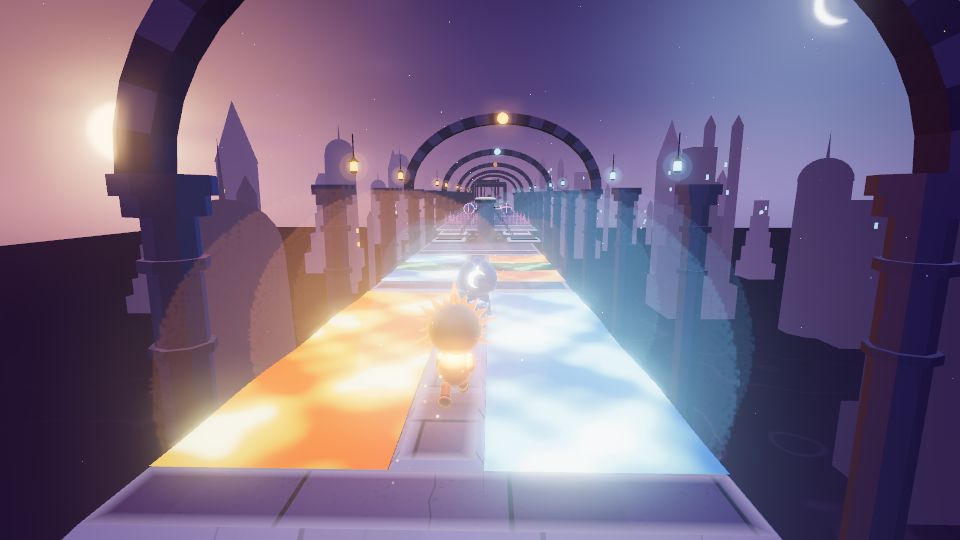
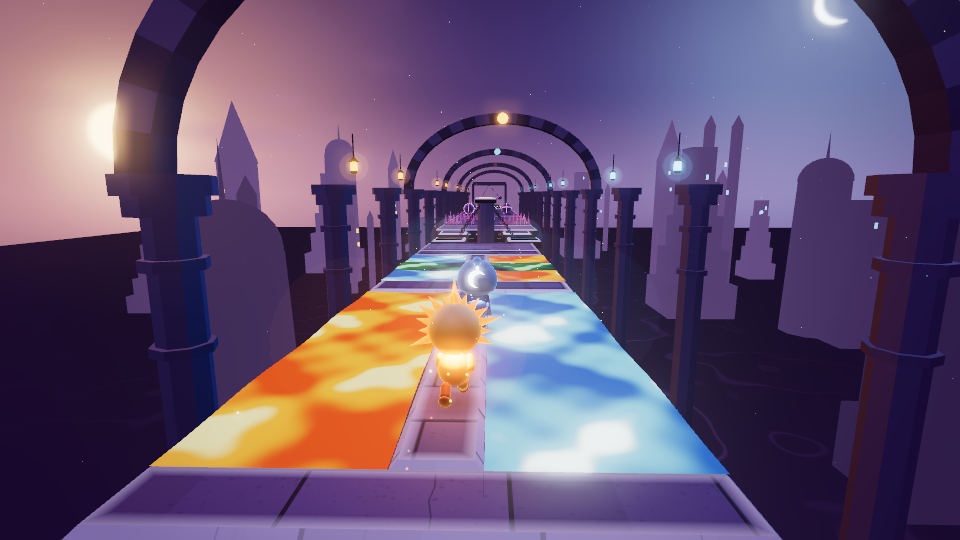
WIP Runner 3D renderer: demo starts kind shots on the section run-up, death and victory shots

diff --git a/tools/r3d-shots.js b/tools/r3d-shots.js
@@ -35,6 +35,10 @@ const SHOTS = [
   ['pool', 'seed=7&kind=pool', 60],
   ['spikes', 'seed=7&kind=spikes', 60],
   ['low', 'seed=7&z=140&q=low', 150],
+  // deaths and the victory pose (set directly in the state; the renderer reacts to the change)
+  ['death-spike', 'seed=7&z=30', 14, `__r3d.step(60); __r3d.render(); const S = __r3d.S; S.p[0].alive = false; S.dead[0] = S.tick; S.why[0] = 'spike';`],
+  ['death-zone', 'seed=7&z=30&me=1', 30, `__r3d.step(60); __r3d.render(); const S = __r3d.S; S.p[1].alive = false; S.dead[1] = S.tick; S.why[1] = 'zone'; S.zone = S.p[1].z - 0.2;`],
+  ['victory', 'seed=7&z=30&cam=0.6,1.3,3.6', 40, `__r3d.step(60); const S = __r3d.S; S.phase = __r3d.R3.R3_OVER; S.win = 0; S.p[1].alive = false; S.dead[1] = S.tick; S.why[1] = 'fall';`],
   ['chars-front', 'seed=7&count=1&cam=0.9,1.1,3.4', 30],
   ['chars-run', 'seed=7&z=20&cam=2.6,1.0,1.2', 60],
   ['chars-luna', 'seed=7&count=1&me=1&cam=-0.9,1.1,3.4', 30],

diff --git a/public/r3d-demo.html b/public/r3d-demo.html
@@ -62,7 +62,9 @@ if (Q.has('kind')) {
   const kind = Q.get('kind');
   let found = null;
   for (let zz = 100; zz < 4000 && !found; zz += 100) { R3.ensureGenerated(L, zz); found = L.objs.find(o => o.k === kind); }
-  if (found) placeAt(Math.max(0, found.z0 - 7)); else console.warn('no object of kind', kind);
+  // start on the run-up of the section that holds it
+  const fi = L.objs.indexOf(found), sec = found && L.secs.find(s => fi >= s.o0 && fi < s.o1);
+  if (sec) placeAt(Math.max(0, sec.sz - 3)); else if (found) placeAt(Math.max(0, found.z0 - 7)); else console.warn('no object of kind', kind);
 } else if (Q.has('z')) placeAt(num('z', 0));
 
 // --- input: bots by default; pressing a player's keys hands that player to the keyboard

diff --git a/public/js/r3d/views.js b/public/js/r3d/views.js
@@ -37,7 +37,7 @@ export function stoneSlab(o, idx, { h = o.h ?? 1, inlay = true, runes = true, gl
     m.position.z = (hash(idx, 9) - 0.5) * Math.max(0, d - size - 1);
     grp.add(m); grp.userData.geos.push(m.geometry);
   }
-  if (runes && w >= 1.5 && h >= 0.4) {
+  if (runes && w >= 2 && d >= 2.5 && h >= 0.4) {
     const rh = Math.min(0.3, h * 0.4);
     const r = runeBand(w * 0.86, rh);
     r.position.set(0, -rh - 0.08, d / 2 + 0.012);
